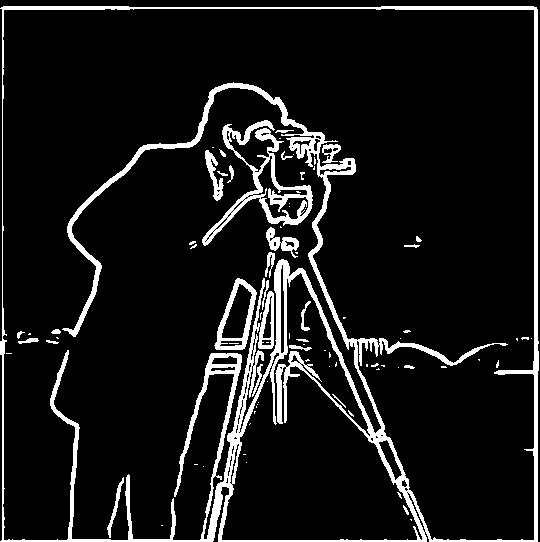
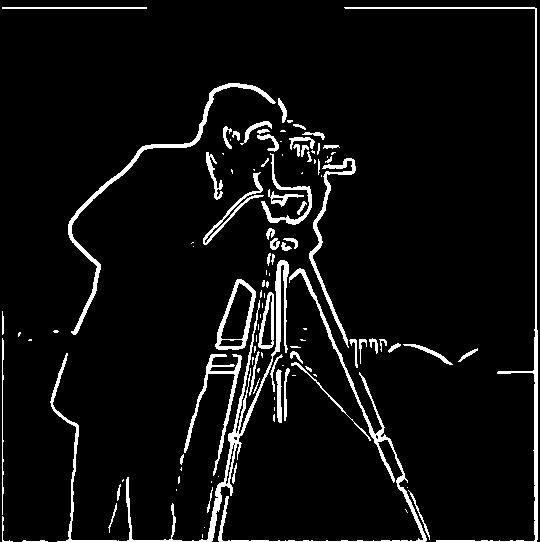
feat: update part 1.2 images with threshold 0.07

diff --git a/2/index.html b/2/index.html
@@ -86,21 +86,54 @@
     <h3>Part 1.2: Derivative of Gaussian (DoG) Filter</h3>
 
     <p>
-      Now, we can create and use a derivative of Gaussian filter to convolve the image. Slide 33 of our lecture on
+      Now, we can create and use a derivative of Gaussian filter to convolve the image. First, we blur the image with a
+      Gaussian filter. Slide 33 of our lecture on
       <strong>Image Processing II: Convolution and Derivatives</strong> shared a rule of thumb of choosing a half-width
       of 3$\sigma$ so I chose 6 as the multiplication factor so I chose <code>kernel_size = 10</code> and
-      <code>sigma = 10/6</code>. The <code>sigma</code> is chosen after some manual checks.
+      <code>sigma = 10/6</code>. The <code>sigma</code> was chosen after some manual checks. For both images, I chose
+      <code>threshold = 0.07</code>.
     </p>
+
+    <h4>Images after initially blurring the cameraman image</h4>
 
     <div class="image-container-4">
       <div class="image-item">
-        <h4 class="image-title">Partial Derivative in x (with DoG filter)</h4>
+        <h4 class="image-title">Partial Derivative in x</h4>
+        <div class="image-wrapper">
+          <img src="media/part12/12_partial_x_blurred.jpg" alt="12_partial_x_blurred.jpg" />
+        </div>
+      </div>
+      <div class="image-item">
+        <h4 class="image-title">Partial Derivative in y</h4>
+        <div class="image-wrapper">
+          <img src="media/part12/12_partial_y_blurred.jpg" alt="12_partial_y_blurred.jpg" />
+        </div>
+      </div>
+      <div class="image-item">
+        <h4 class="image-title">Gradient Magnitude</h4>
+        <div class="image-wrapper">
+          <img src="media/part12/12_gradient_magnitude_blurred.jpg" alt="12_gradient_magnitude_blurred.jpg" />
+        </div>
+      </div>
+      <div class="image-item">
+        <h4 class="image-title">Edge Image</h4>
+        <div class="image-wrapper">
+          <img src="media/part12/12_edge_image_blurred.jpg" alt="12_edge_image_blurred.jpg" />
+        </div>
+      </div>
+    </div>
+
+    <h4>Images with DoG filter</h4>
+
+    <div class="image-container-4">
+      <div class="image-item">
+        <h4 class="image-title">Partial Derivative in x</h4>
         <div class="image-wrapper">
           <img src="media/part12/12_partial_x_DoG.jpg" alt="12_partial_x_DoG.jpg" />
         </div>
       </div>
       <div class="image-item">
-        <h4 class="image-title">Partial Derivative in y (with DoG filter)</h4>
+        <h4 class="image-title">Partial Derivative in y</h4>
         <div class="image-wrapper">
           <img src="media/part12/12_partial_y_DoG.jpg" alt="12_partial_y_DoG.jpg" />
         </div>
